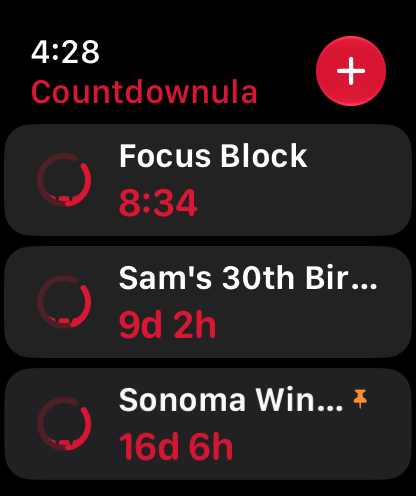
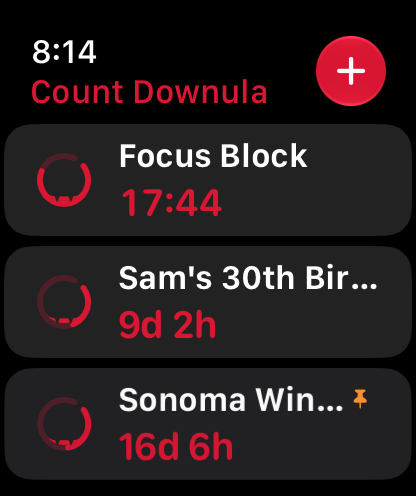
Retake screenshots and update README for Count Downula
- New Mac popover, Watch app, iPhone app and iPhone Home Screen
  screenshots showing the Count Downula name (README and site)
- README: Count Downula title and copy, iPhone screenshot row, iOS 17
  requirement, iPhone source folders in the layout table
- Mac debug builds take -seedDemo (sample countdowns with macOS
  wallpapers as photos) and -openPopover, so screenshots can be retaken
  without touching real data (with CFFIXED_USER_HOME)

diff --git a/Sources/Countdownula/CountdownStore.swift b/Sources/Countdownula/CountdownStore.swift
@@ -24,6 +24,9 @@ final class CountdownStore {
         repository = CountdownRepository(storeURL: supportDirectory.appending(path: "Countdownula.store"))
         repository.onRemoteChange = { [weak self] in self?.reload() }
         LegacyImporter.importIfNeeded(from: supportDirectory, into: repository)
+        #if DEBUG
+        if ProcessInfo.processInfo.arguments.contains("-seedDemo") { seedDemoData() }
+        #endif
         reload()
 
         let timer = Timer(timeInterval: 1, repeats: true) { [weak self] _ in
@@ -97,6 +100,37 @@ final class CountdownStore {
         if fresh != countdowns { countdowns = fresh }
         onUpdate?()
     }
+
+    #if DEBUG
+    /// Sample countdowns for screenshots, with macOS wallpapers standing in for photos.
+    private func seedDemoData() {
+        guard repository.fetchAll().isEmpty else { return }
+        let now = Date()
+        let day: TimeInterval = 86_400
+        let wallpapers = URL(filePath: "/System/Library/Desktop Pictures/.thumbnails")
+        func photo(_ name: String) -> ImageUpdate {
+            Self.prepareImage(from: wallpapers.appending(path: "\(name).heic"))?.update ?? .unchanged
+        }
+        let halloween = Calendar.current.nextDate(
+            after: now, matching: DateComponents(month: 10, day: 31, hour: 19), matchingPolicy: .nextTime
+        ) ?? now + 24 * day
+        let samples: [(Countdown, ImageUpdate)] = [
+            (Countdown(title: "Focus Block", details: "Heads down on the release notes",
+                       targetDate: now + 18 * 60, kind: .timer, isPinned: true, createdAt: now - 7 * 60), .unchanged),
+            (Countdown(title: "Sam's 30th Birthday", details: "Dinner at 7 — pick up the cake!",
+                       targetDate: now + 9 * day + 10_800, createdAt: now - 20 * day), photo("Light Stream Pink")),
+            (Countdown(title: "Sonoma Wine Weekend", details: "Three days of vineyards, long lunches and zero laptops.",
+                       targetDate: now + 16 * day + 25_200, isPinned: true, createdAt: now - 30 * day), photo("Sonoma")),
+            (Countdown(title: "Halloween", details: "Costume: obviously Dracula.",
+                       targetDate: halloween, createdAt: now - 10 * day), photo("Hello Metallic Purple")),
+            (Countdown(title: "v2.0 Launch", details: "Ship it.",
+                       targetDate: now + 41 * day, createdAt: now - 5 * day), photo("Chroma Blue")),
+            (Countdown(title: "Conference Talk", details: "Nailed it.",
+                       targetDate: now - 3 * day, createdAt: now - 60 * day, hasNotified: true), .unchanged),
+        ]
+        for (countdown, image) in samples { repository.upsert(countdown, image: image) }
+    }
+    #endif
 
     private func tick() {
         now = Date()

diff --git a/Sources/Countdownula/AppDelegate.swift b/Sources/Countdownula/AppDelegate.swift
@@ -43,6 +43,15 @@ final class AppDelegate: NSObject, NSApplicationDelegate, NSWindowDelegate {
         store.onUpdate = { [weak self] in self?.refreshPinnedItems() }
         refreshPinnedItems()
         Notifier.requestAuthorization()
+
+        #if DEBUG
+        // Screenshots: launch with -openPopover to show the list without clicking the menu bar.
+        if ProcessInfo.processInfo.arguments.contains("-openPopover"), let button = mainItem.button {
+            DispatchQueue.main.asyncAfter(deadline: .now() + 1) { [weak self] in
+                self?.togglePopover(from: button, selecting: nil)
+            }
+        }
+        #endif
     }
 
     // MARK: - Popover

diff --git a/README.md b/README.md
@@ -1,8 +1,10 @@
-# Countdownula
+# Count Downula
 
-<img src="design/app-icon.png" width="128" alt="Countdownula icon: a blood-red timer ring with fangs">
+<img src="design/app-icon.png" width="128" alt="Count Downula icon: a blood-red timer ring with fangs">
 
 Native countdowns for vacations, launches, birthdays, or a quick timer: a macOS menu bar app, an iPhone app with widgets and Live Activities, and an Apple Watch app with complications.
+
+The app shows up as **Count Downula** everywhere you see it. The project, targets and files keep the original one-word name, `Countdownula`.
 
 [![Download the latest release](https://img.shields.io/github/v/release/mrlynn/count-downula?label=Download&color=c3112d&logo=apple)](https://github.com/mrlynn/count-downula/releases/latest)
 
@@ -21,6 +23,12 @@ Native countdowns for vacations, launches, birthdays, or a quick timer: a macOS 
 
 ## iPhone
 
+<p>
+  <img src="docs/screenshots/iphone-app.jpg" width="240" alt="Count Downula iPhone app with a pinned countdown as a full-bleed photo card above the upcoming list">
+  <img src="docs/screenshots/iphone-lock.jpg" width="240" alt="Lock Screen with a countdown Live Activity and Count Downula widgets">
+  <img src="docs/screenshots/iphone-home.jpg" width="240" alt="Home Screen with Up Next and photo countdown widgets, and a timer in the Dynamic Island">
+</p>
+
 The iPhone (and iPad) app lists your countdowns with the next one up as a full-bleed card, shows a live days/hours/minutes/seconds view, and lets you add or edit countdowns with a photo from your library. The **+** button also offers one-tap quick timers. It schedules its own alerts and syncs with the Mac and watch through iCloud.
 
 | Where | What |
@@ -37,11 +45,11 @@ The Countdown widget follows **Next Up** (soonest pinned, otherwise soonest) or 
 ## Apple Watch
 
 <p>
-  <img src="docs/screenshots/watch-face.png" width="208" alt="Infograph watch face with Countdownula corner and circular complications">
-  <img src="docs/screenshots/watch-app.png" width="208" alt="Countdownula watch app listing countdowns">
+  <img src="docs/screenshots/watch-face.png" width="208" alt="Infograph watch face with Count Downula corner and circular complications">
+  <img src="docs/screenshots/watch-app.png" width="208" alt="Count Downula watch app listing countdowns">
 </p>
 
-A standalone watch app (no iPhone app needed) lists your countdowns, shows a live days/hours/minutes/seconds view, and lets you start a quick timer or add a date right from your wrist. Countdowns sync with the Mac through iCloud, and the watch schedules its own alerts.
+A standalone watch app (no iPhone app needed) lists your countdowns, shows a live days/hours/minutes/seconds view, and lets you start a quick timer or add a date right from your wrist. Countdowns sync with the Mac and iPhone through iCloud, and the watch schedules its own alerts.
 
 **Complications** (WidgetKit) work on any face that has slots:
 
@@ -54,12 +62,12 @@ A standalone watch app (no iPhone app needed) lists your countdowns, shows a liv
 
 Each complication can follow **Next Up** (your soonest pinned countdown, otherwise the soonest one) or a specific countdown.
 
-Apple doesn't allow third-party watch faces. To share a "Countdownula face", set one up (Infograph or Modular work well, in a red color), then long-press it and choose **Share**. That creates a `.watchface` file anyone with the app can add in one tap.
+Apple doesn't allow third-party watch faces. To share a "Count Downula face", set one up (Infograph or Modular work well, in a red color), then long-press it and choose **Share**. That creates a `.watchface` file anyone with the app can add in one tap.
 
 ## Download
 
 Grab **Countdownula-x.y.z.zip** from the [latest release](https://github.com/mrlynn/count-downula/releases/latest), unzip it, and drag **Countdownula.app** to `/Applications`.
-It's a universal app (Apple Silicon + Intel) and needs macOS 14 Sonoma or later.
+It's a universal app (Apple Silicon + Intel) and needs macOS 14 Sonoma or later. Finder shows it as Count Downula.
 
 The app isn't notarized, so macOS blocks the first launch. **Right-click the app → Open → Open**, or run:
 
@@ -69,11 +77,17 @@ xattr -dr com.apple.quarantine /Applications/Countdownula.app
 
 ## Build from source
 
-Requires Xcode 16+ (macOS 14 / watchOS 10 deployment targets), [XcodeGen](https://github.com/yonaskolb/XcodeGen) (`brew install xcodegen`), and an Apple Developer account. iCloud needs real signing. The project is defined in `project.yml`; the `.xcodeproj` is generated and not committed.
+Requires Xcode 16+ (macOS 14 / iOS 17 / watchOS 10 deployment targets), [XcodeGen](https://github.com/yonaskolb/XcodeGen) (`brew install xcodegen`), and an Apple Developer account. iCloud needs real signing. The project is defined in `project.yml`; the `.xcodeproj` is generated and not committed.
 
 ```bash
 ./scripts/build-app.sh          # signed Mac build → build/Countdownula.app
 open build/Countdownula.app
+```
+
+Debug Mac builds take optional launch arguments for screenshots: `-seedDemo` (sample countdowns, using macOS wallpapers as photos), `-openPopover` (opens the list at launch) and `-localOnly` (no iCloud). To keep them away from your real countdowns, build with `scripts/build-app.sh debug` and point the app at a scratch home folder:
+
+```bash
+CFFIXED_USER_HOME=/tmp/cd-demo .build/xcode/Build/Products/Debug/Countdownula.app/Contents/MacOS/Countdownula -localOnly -seedDemo -openPopover
 ```
 
 To use your own team, change `DEVELOPMENT_TEAM` and the `com.countdownula.*` / `iCloud.com.countdownula.app` / `group.com.countdownula.app` identifiers in `project.yml` and `Sources/Shared/SharedConfig.swift`.
@@ -103,7 +117,7 @@ swift scripts/render-icons.swift
 
 ## Data
 
-Countdowns live in a SwiftData store (`~/Library/Application Support/Countdownula/Countdownula.store` on the Mac) that syncs through your **private** iCloud database. Photos are stored as a 1400px JPEG plus a 240px thumbnail. Countdownula 1.0's `countdowns.json` is imported automatically on first launch and renamed to `countdowns.imported.json`.
+Countdowns live in a SwiftData store (`~/Library/Application Support/Countdownula/Countdownula.store` on the Mac) that syncs through your **private** iCloud database. Photos are stored as a 1400px JPEG plus a 240px thumbnail. Version 1.0's `countdowns.json` is imported automatically on first launch and renamed to `countdowns.imported.json`.
 
 ## Layout
 
@@ -111,5 +125,8 @@ Countdowns live in a SwiftData store (`~/Library/Application Support/Countdownul
 |---|---|
 | `Sources/Shared/` | `Countdown` model and formatting, SwiftData `CountdownRecord`, `CountdownRepository` (CRUD + CloudKit), `WidgetSnapshot` (App Group hand-off to complications), `FangMark` (the logo drawn in SwiftUI, doubling as a progress dial) |
 | `Sources/Countdownula/` | Mac app: status items and popover (`AppDelegate`), `CountdownStore`, popover and editor views |
+| `Sources/CountdownulaiOS/` | iPhone and iPad app: `PhoneStore` (sync, snapshot, alerts), `LiveActivities`, list, detail and editor views |
+| `Sources/CountdownulaiOSWidgets/` | iPhone widget extension: Home Screen and StandBy widgets, Up Next list, Live Activity and Dynamic Island |
+| `Sources/PhoneShared/` | Shared by the iPhone app and its widgets: Live Activity attributes, deep links, image downsampling |
 | `Sources/CountdownulaWatch/` | Watch app: `WatchStore` (sync, snapshot, alerts), list, detail and add views, debug complication gallery |
-| `Sources/CountdownulaWidgets/` | Complication extension: configuration intent, timeline provider, per-family views |
+| `Sources/CountdownulaWidgets/` | Configuration intent, timeline provider and accessory views shared by the watch complications and iPhone Lock Screen widgets |
